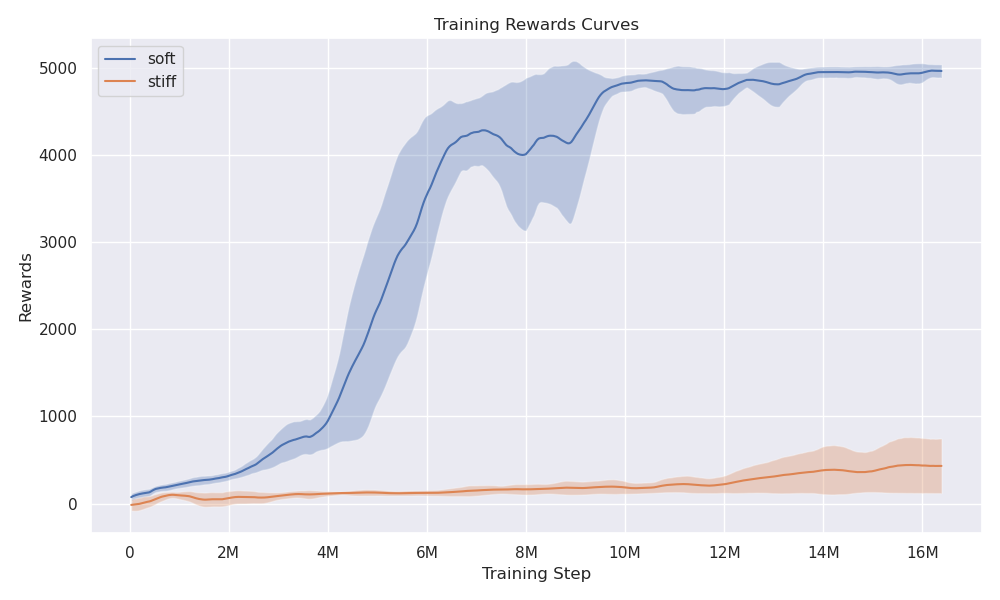
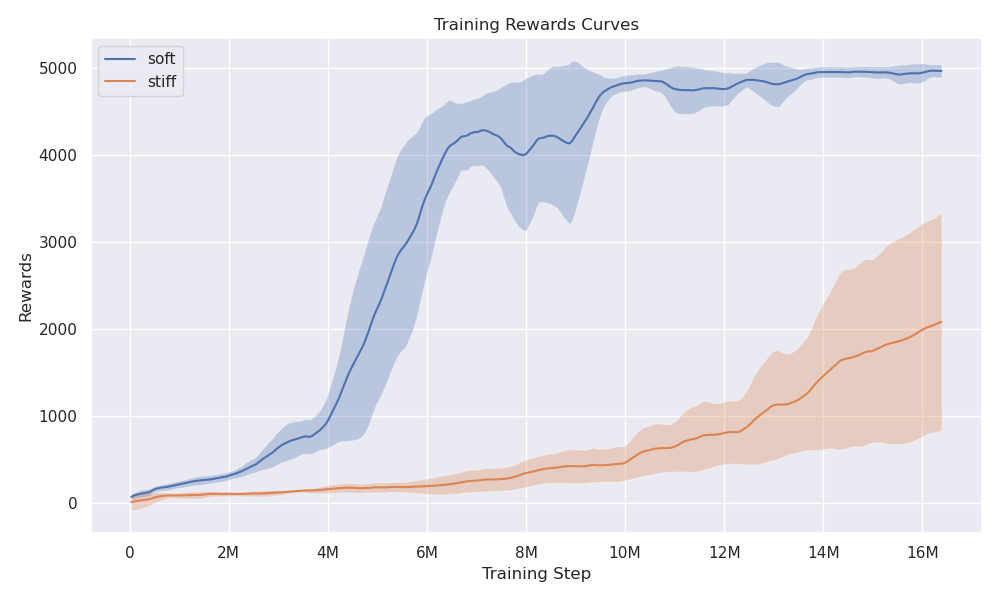
mods small

Changed region(s): [[0.124, 0.36, 0.961, 0.84]]

diff --git a/sim2mujoco/policies/soft-stiff/plot_bundled_stiff_rew.py b/sim2mujoco/policies/soft-stiff/plot_bundled_stiff_rew.py
@@ -7,7 +7,7 @@ import matplotlib.pyplot as plt
 import seaborn as sns
 from tensorboard.backend.event_processing import event_accumulator
 from matplotlib.ticker import FuncFormatter
-
+from matplotlib.patches import Patch  # ← added
 
 def find_event_file(run_path):
     """
@@ -21,74 +21,155 @@ def find_event_file(run_path):
     files.sort(key=lambda f: os.path.getmtime(f))
     return files[0]
 
-
-def load_rewards(run_path, tag='rewards'):
+def find_run_dirs(root_path):
     """
-    Load scalar values for `tag` from the TensorBoard event file in run_path.
+    Return a list of *run directories* under root_path that contain tfevents files.
+    Each directory is treated as one seeded run.
+    """
+    pattern = os.path.join(root_path, '**', '*tfevents*')
+    files = glob.glob(pattern, recursive=True)
+    run_dirs = sorted(set(os.path.dirname(f) for f in files))
+    if not run_dirs:
+        raise FileNotFoundError(f"No TensorBoard event files found under {root_path}")
+    return run_dirs
+
+def load_rewards(run_dir, tag='rewards'):
+    """
+    Load scalar values for `tag` from all TensorBoard event files inside run_dir.
     Returns a DataFrame indexed by `step` with column `reward`.
     """
-    event_file = find_event_file(run_path)
-    ea = event_accumulator.EventAccumulator(event_file, size_guidance={event_accumulator.SCALARS: 0})
+    ea = event_accumulator.EventAccumulator(run_dir, size_guidance={event_accumulator.SCALARS: 0})
     ea.Reload()
     scalars = ea.Tags().get('scalars', [])
     if tag not in scalars:
-        raise KeyError(f"Tag '{tag}' not found in {event_file}")
+        raise KeyError(f"Tag '{tag}' not found in {run_dir}")
     events = ea.Scalars(tag)
     df = pd.DataFrame({
         'step': [e.step for e in events],
         'reward': [e.value for e in events]
-    }).drop_duplicates(subset='step').set_index('step')
+    }).drop_duplicates(subset='step').set_index('step').sort_index()
     return df
 
+def aggregate_runs_mean_std(run_dirs, tag, num_points=400):
+    """
+    Given a list of run directories, load each run's rewards and compute
+    mean and std on a common step grid using linear interpolation.
+    """
+    series = []
+    for rd in run_dirs:
+        try:
+            df = load_rewards(rd, tag)
+            series.append((df.index.values.astype(float), df['reward'].values.astype(float)))
+        except Exception as e:
+            print(f"[!] Skipping {rd}: {e}")
+
+    if not series:
+        raise RuntimeError("No valid runs to aggregate.")
+
+    # Use overlapping region across all runs
+    start = max(s.min() for s, _ in series)
+    end   = min(s.max() for s, _ in series)
+    if not np.isfinite(start) or not np.isfinite(end) or end <= start:
+        raise RuntimeError("Runs do not share an overlapping step range.")
+
+    steps_common = np.linspace(start, end, num_points)
+    stacked = np.stack([np.interp(steps_common, s, v) for s, v in series], axis=0)
+    mean = stacked.mean(axis=0)
+    std  = stacked.std(axis=0)
+    return steps_common, mean, std
 
 def plot_three_runs(paths, tag, smooth_window, output_path):
     """
-    Plot reward curves for three single-run folders with optional smoothing.
+    Plot mean ± std as a shaded area for THREE experiment folders.
+    Each folder may contain multiple seeded runs (subfolders with tfevents).
     """
     sns.set()
     plt.figure(figsize=(10, 6))
-    labels = [os.path.basename(p.rstrip('/')) for p in paths]
+
     labels = ["SHAC Low Stiffness", "SHAC High Stiffness + Bundle", "SHAC High Stiffness"]
+
+    ax = plt.gca()
     for i, (path, label) in enumerate(zip(paths, labels)):
-        df = load_rewards(path, tag)
-        steps = df.index.values
-        values = df['reward'].values
-        # apply rolling average if requested
+        try:
+            run_dirs = find_run_dirs(path)
+        except Exception as e:
+            print(f"[!] {path}: {e}")
+            continue
+
+        try:
+            steps, mean, std = aggregate_runs_mean_std(run_dirs, tag, num_points=400)
+        except Exception as e:
+            print(f"[!] {path}: {e}")
+            continue
+
+        # Optional smoothing on mean/std (keeps same length)
         if smooth_window > 1:
-            values = pd.Series(values).rolling(window=smooth_window, min_periods=1, center=True).mean().values
+            mean = pd.Series(mean).rolling(window=smooth_window, min_periods=1, center=True).mean().values
+            std  = pd.Series(std).rolling(window=smooth_window, min_periods=1, center=True).mean().values
+
+        # Choose colors per series
         if i == 2:
-            sns.lineplot(x=steps, y=values, label=label, color='red')
+            color = 'red'
         elif i == 1:
-            sns.lineplot(x=steps, y=values, label=label, color='C2')
+            color = 'C2'
         else:
-            sns.lineplot(x=steps, y=values, label=label)
+            color = None  # let mpl pick
+
+        # Plot mean line
+        line = ax.plot(steps, mean, label=label, color=color)[0]
+        line_color = line.get_color()
+
+        # Shaded area: mean ± std
+        ax.fill_between(steps, mean - std, mean + std, alpha=0.25, color=line_color)
 
     # format x-axis ticks in millions
-    ax = plt.gca()
     ax.xaxis.set_major_formatter(FuncFormatter(lambda x, pos: f"{int(x/1e6)}M" if x >= 1e6 else f"{int(x)}"))
     plt.xlabel('Step', fontsize=12)
     plt.ylabel("Reward", fontsize=12)
-    # plt.title(f"Training {tag.capitalize()} Curves for Three Runs")
-    # plt.legend(fontsize=22)
-    # Legend below the x-axis label
-    ax.legend(
-        loc='upper center',
-        bbox_to_anchor=(0.5, -0.09),  # push below the axes
-        ncol=3,
-        frameon=False,
+
+    # --- Legend as color blocks below the plot ---
+    legend_handles, legend_labels = ax.get_legend_handles_labels()
+    legend_colors = []
+    for h in legend_handles:
+        # Line2D: get_color(); fallback to facecolor if needed
+        c = getattr(h, "get_color", None)
+        if callable(c):
+            legend_colors.append(h.get_color())
+        else:
+            # e.g., PolyCollection
+            fc = getattr(h, "get_facecolor", None)
+            legend_colors.append(fc()[0] if callable(fc) else "gray")
+
+    patches = [Patch(facecolor=c, edgecolor=c, label=l, linewidth=0)
+               for c, l in zip(legend_colors, legend_labels)]
+
+    leg = ax.legend(
+        handles=patches,
+        loc="upper center",
+        bbox_to_anchor=(0.5, -0.12),
+        ncol=len(patches),
+        frameon=True,
+        facecolor="white",
+        edgecolor="black",
+        handlelength=2.2,
+        handletextpad=0.5,
+        columnspacing=1.0,
         fontsize=12
     )
+    # Optional rounded legend box:
+    # leg.get_frame().set_boxstyle("round,pad=0.3")
+
     ax.tick_params(axis='both', which='major', labelsize=10)
+
     plt.tight_layout()
-    plt.savefig(output_path)
+    plt.savefig(output_path, bbox_inches='tight')  # ensure the below-plot legend is included
     plt.show()
     print(f"Saved plot with three runs to {output_path}")
 
-
 def main():
-    parser = argparse.ArgumentParser(description='Plot three single-run reward curves with smoothing.')
+    parser = argparse.ArgumentParser(description='Plot mean±std reward curves with shading for three experiment folders (each may contain multiple seeded runs).')
     parser.add_argument('run_dirs', nargs=3, type=str,
-                        help='Paths to three run folders')
+                        help='Paths to three experiment folders (each containing one or more seeded runs)')
     parser.add_argument('-t', '--tag', type=str, default='rewards',
                         help='TensorBoard scalar tag to plot')
     parser.add_argument('-w', '--smooth-window', type=int, default=1,
@@ -96,11 +177,13 @@ def main():
     parser.add_argument('-o', '--output', type=str, default='three_runs_comparison.png',
                         help='Path for output image')
     args = parser.parse_args()
-    # verify directories
+
     for p in args.run_dirs:
         if not os.path.isdir(p):
             parser.error(f"Run directory not found: {p}")
+
     plot_three_runs(args.run_dirs, args.tag, args.smooth_window, args.output)
 
 if __name__ == '__main__':
     main()
+

diff --git a/src/shac/algorithms/bptt.py b/src/shac/algorithms/bptt.py
@@ -99,7 +99,7 @@ class BPTT:
             self.stochastic_evaluation = True
         else:
             self.stochastic_evaluation = not (
-                cfg["params"]["config"]["player"].get("determenistic", False)
+                cfg["params"]["config"]["player"].get("deterministic", False)
                 or cfg["params"]["config"]["player"].get("deterministic", False)
             )
             self.steps_num = self.env.episode_length
